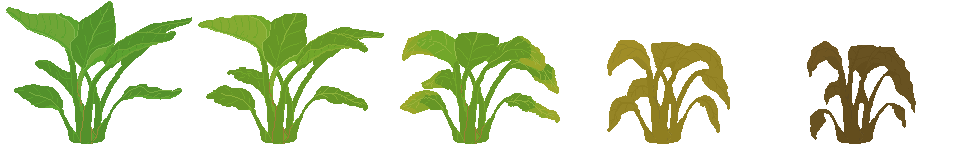
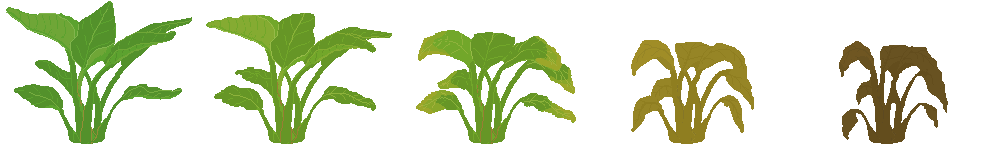
plant image

diff --git a/src/Plant.ts b/src/Plant.ts
@@ -21,7 +21,29 @@ export class Plant extends Phaser.GameObjects.Image {
       .renderer as Phaser.Renderer.WebGL.WebGLRenderer;
     renderer.pipelines.add("sway", new SwayPipeline(this.scene.game));
     renderer.pipelines.get("sway").set1f("strength", 1.0);
+    renderer.pipelines
+      .get("sway")
+      .set4f(
+        "frameUV",
+        this.frameUV.x,
+        this.frameUV.y,
+        this.frameUV.w,
+        this.frameUV.h
+      );
     this.setPipeline("sway");
+  }
+
+  get frameUV() {
+    const frame = this.frame;
+    const baseTexWidth = frame.texture.source[0].width;
+    const baseTexHeight = frame.texture.source[0].height;
+
+    return {
+      x: frame.cutX / baseTexWidth,
+      y: frame.cutY / baseTexHeight,
+      w: frame.cutWidth / baseTexWidth,
+      h: frame.cutHeight / baseTexHeight,
+    };
   }
 
   get hp() {
@@ -64,6 +86,27 @@ export class Plant extends Phaser.GameObjects.Image {
     }
   }
 
+  setFrame(
+    frame: string | number | Phaser.Textures.Frame,
+    updateSize?: boolean,
+    updateOrigin?: boolean
+  ): this {
+    super.setFrame(frame, updateSize, updateOrigin);
+    const renderer = this.scene.game
+      .renderer as Phaser.Renderer.WebGL.WebGLRenderer;
+    const pipeline = renderer.pipelines.get("sway") as SwayPipeline;
+    if (pipeline) {
+      pipeline.set4f(
+        "frameUV",
+        this.frameUV.x,
+        this.frameUV.y,
+        this.frameUV.w,
+        this.frameUV.h
+      );
+    }
+    return this;
+  }
+
   setSwayStrength(strength: number) {
     const renderer = this.scene.game
       .renderer as Phaser.Renderer.WebGL.WebGLRenderer;
@@ -97,20 +140,28 @@ class SwayPipeline extends Phaser.Renderer.WebGL.Pipelines.SinglePipeline {
     uniform float time;
     uniform sampler2D uMainSampler;
     uniform float strength;
+    uniform vec4 frameUV;
     varying vec2 outTexCoord;
 
     void main() {
+        // Normalize UV within current frame
         vec2 uv = outTexCoord;
+        vec2 framePos = frameUV.xy;
+        vec2 frameSize = frameUV.zw;
+        vec2 localUV = (uv - framePos) / frameSize;
         
         // Horizontal sway: stronger near top
-        float topSwayStrength = (1.0 - uv.y) * strength;
-        float waveX = sin((uv.y + time * 0.8) * 5.0) * 0.003;
-        uv.x += waveX * topSwayStrength;
+        float topSwayStrength = (1.0 - localUV.y) * strength;
+        float waveX = sin((uv.y + time * 0.5) * 5.0) * 0.01;
+        localUV.x += waveX * topSwayStrength;
 
         // Vertical sway: stronger near sides
-        float sideSwayStrength = abs(uv.x - 0.5) * strength;
-        float waveY = sin((uv.x + time * 0.5) * 10.0) * 0.003;
-        uv.y += waveY * sideSwayStrength;
+        float sideSwayStrength = abs(localUV.x - 0.5) * strength;
+        float waveY = sin((uv.x + time * 0.5) * 10.0) * 0.01;
+        localUV.y += waveY * sideSwayStrength;
+
+        // Convert back to full texture UV
+        uv = framePos + localUV * frameSize;
 
         gl_FragColor = texture2D(uMainSampler, uv);
     }

diff --git a/src/scenes/Game.ts b/src/scenes/Game.ts
@@ -54,7 +54,7 @@ export class Game extends Scene {
 
     this.load.image("land", "land.png");
     this.load.spritesheet("plant", "plant.png", {
-      frameWidth: 192,
+      frameWidth: 200,
       frameHeight: 144,
     });
     this.load.spritesheet("insect", "bug.png", {
